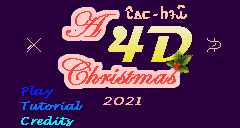
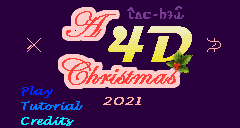
title screen options & SRAM highscore

Changed region(s): [[0.525, 0.0312, 0.7875, 0.1562]]

diff --git a/source/title_scene.cpp b/source/title_scene.cpp
@@ -7,6 +7,14 @@
 
 #include "title-screen.h"
 
+static u8 ci_play;
+static u8 ci_tutorial;
+static u8 ci_credits;
+
+static const u16 cl_unfocused = 0x780F;
+static const u16 cl_focused = 0x7FFF;
+
+
 TitleScene::TitleScene()
 {
 	SetMode(MODE_4 | BG2_ON | OBJ_ENABLE | OBJ_1D_MAP);
@@ -16,8 +24,59 @@ TitleScene::TitleScene()
 		((u16*)BG_PALETTE)[i]=RGB5(min(31,i+r),min(31,i+g),min(31,i+b));
 	}		
 	dmaCopy((void*)(title_screenPal),BG_PALETTE+32,title_screenPalLen);
-	//((u16*)BG_PALETTE)[32]=RGB5(31,31,14);
+	for(u16 i=0;i<title_screenPalLen/2;i++)
+	{
+		if(BG_PALETTE[32+i]==0x7C80) ci_play = 32+i;
+		else if(BG_PALETTE[32+i]==0x7DE0) ci_tutorial = 32+i;
+		else if(BG_PALETTE[32+i]==0x7FC0) ci_credits = 32+i;
+	}
+	set_option(ci_play);	
 	VBlankIntrWait();	
+}
+
+void TitleScene::set_option(u8 opt)
+{
+	option=opt;
+	BG_PALETTE[ci_play] = BG_PALETTE[ci_tutorial] = BG_PALETTE[ci_credits] = cl_unfocused;
+	if(opt == ci_play || opt==ci_tutorial || opt==ci_credits)
+		BG_PALETTE[opt] = cl_focused;
+}
+
+void TitleScene::next_option()
+{
+	if(option==ci_play)
+		set_option(ci_tutorial);
+	else if(option==ci_tutorial)
+		set_option(ci_credits);
+	else if(option==ci_credits)
+		set_option(ci_play);
+	else 
+		set_option(ci_play);	
+}
+
+void TitleScene::prev_option()
+{
+	if(option==ci_play)
+		set_option(ci_credits);
+	else if(option==ci_tutorial)
+		set_option(ci_play);
+	else if(option==ci_credits)
+		set_option(ci_tutorial);
+	else 
+		set_option(ci_play);
+}
+
+bool TitleScene::input_handler()
+{
+	scanKeys();
+	u16 keys_down = keysDown();
+	if(keys_down & KEY_UP)
+		prev_option();
+	else if(keys_down & KEY_DOWN)
+		next_option();
+	else if(keys_down & (KEY_START | KEY_A))
+		return true;
+	return false;
 }
 
 Scene* TitleScene::run()
@@ -26,6 +85,10 @@ Scene* TitleScene::run()
 	float k1 = k*0.1;
 	float k2 = k*0.2;	
 	nSphere::make_sphere(k1,k2, 60,120, 80);
+	if(input_handler())			
+	{
+		if (option==ci_play) return new MainScene();
+	}
 	u8* wmem = vBuffer::WMEM+16*240;
 	u8* title = (u8*)title_screenBitmap;
 	for(int i=0;i<title_screenBitmapLen;i++)
@@ -36,11 +99,13 @@ Scene* TitleScene::run()
 		}
 		wmem++, title++;
 	}
+	if(input_handler())			
+	{
+		if (option==ci_play) return new MainScene();
+	}
 	VBlankIntrWait();
 	vBuffer::draw();	
 	k++;
-	scanKeys();
-	if(keysDown())
-		return new MainScene();
+	
 	return NULL;
 }

diff --git a/source/main_scene.cpp b/source/main_scene.cpp
@@ -11,9 +11,10 @@
 
 #include "sleigh.hpp"
 #include "topbar.hpp"
+#include "title_scene.hpp"
 
 MainScene::MainScene()
-{
+{	
 	SetMode(MODE_4 | BG2_ON | OBJ_ENABLE | OBJ_1D_MAP);
 	for(u16 i=0;i<256;i++)
 	{
@@ -97,7 +98,11 @@ void MainScene::update_enemies()
 				if(xx*xx+yy*yy<=rr*rr)
 				{
 					// sleigh shot					
-					nTopbar::take_a_heart();
+					if(!nTopbar::take_a_heart())
+					{
+						game_over=true;
+						return;
+					}
 					cooldown=32;
 				}
 			}
@@ -145,7 +150,13 @@ Scene* MainScene::run()
 {	
 	vBuffer::clear(0,32);
 			
-	update_enemies();	
+	if(!game_over)
+		update_enemies();	
+	else
+	{
+		nTopbar::save_score_if_high();
+		return new TitleScene();
+	}
 	
 	input_handler(true);
 	
@@ -170,7 +181,7 @@ Scene* MainScene::run()
 
 
 MainScene::~MainScene()
-{	
+{		
 	for(u8 i=0;i<5;i++)
 		if(enemies[i]!=NULL)
 		{

diff --git a/source/topbar.cpp b/source/topbar.cpp
@@ -3,6 +3,7 @@
 #include "vbuffer.hpp"
 #include "top-bar.h"
 #include "digits.h"
+#include "sram.hpp"
 
 namespace nTopbar
 {
@@ -78,6 +79,16 @@ namespace nTopbar
 		return score;
 	}
 	
+	u16 get_high_score()
+	{
+		return highs;
+	}
+	
+	void set_high_score(u16 hs)
+	{
+		highs=hs;
+	}
+	
 	void init()
 	{		
 		// digits
@@ -110,6 +121,16 @@ namespace nTopbar
 		
 		fill_hearts();
 		draw_score(0,12,2);
-		draw_score(0,12,20);		
+		draw_score(get_high_score(),12,20);
+	}
+	
+	void save_score_if_high()
+	{		
+		u16 score = nTopbar::get_score();
+		if(score>nTopbar::get_high_score())
+		{
+			nSRAM::write(&score,2,0x10);
+			nTopbar::set_high_score(score);
+		}
 	}
 }

diff --git a/source/main.cpp b/source/main.cpp
@@ -6,6 +6,7 @@
 #include "SRAM.hpp"
 #include "main_scene.hpp"
 #include "title_scene.hpp"
+#include "topbar.hpp"
 
 int main(void) 
 {
@@ -13,7 +14,19 @@ int main(void)
 	irqInit();
 	irqEnable(IRQ_VBLANK);
 	
-	//bool ok=nSRAM::check_integrity();
+	if(nSRAM::check_integrity())
+	{
+		u16 highscore = 0;
+		nSRAM::read(&highscore,2,0x10);
+		nTopbar::set_high_score(highscore);
+	}
+	else
+	{
+		u16 highscore = 0;
+		nSRAM::write(&highscore,2,0x10);
+		nTopbar::set_high_score(highscore);
+	}	
+	
 	//iprintf(ok?"Yes":"No");
 		
 	//Scene* scene=new MainScene();

diff --git a/include/topbar.hpp b/include/topbar.hpp
@@ -6,6 +6,10 @@ namespace nTopbar
 {
 	void init();
 	u8 take_a_heart();
-	void add_to_score(u16 ds);
+	void add_to_score(u16 ds);	
 	u16 get_score();
+	
+	u16 get_high_score();
+	void set_high_score(u16 hs);
+	void save_score_if_high();
 }

diff --git a/include/title_scene.hpp b/include/title_scene.hpp
@@ -7,6 +7,11 @@ class TitleScene : public Scene
 {
 private:
 	u32 k = 0;
+	u8 option;
+	void set_option(u8 opt);
+	void next_option();
+	void prev_option();
+	bool input_handler();
 public:
 	TitleScene();
 	

diff --git a/include/main_scene.hpp b/include/main_scene.hpp
@@ -10,6 +10,7 @@ private:
 	Enemy** enemies = new Enemy*[5] {NULL, NULL, NULL, NULL, NULL};
 	bool laser = false;
 	u8 cooldown = 0;
+	bool game_over = false;
 public:
 	MainScene();
 	void update_enemies();
